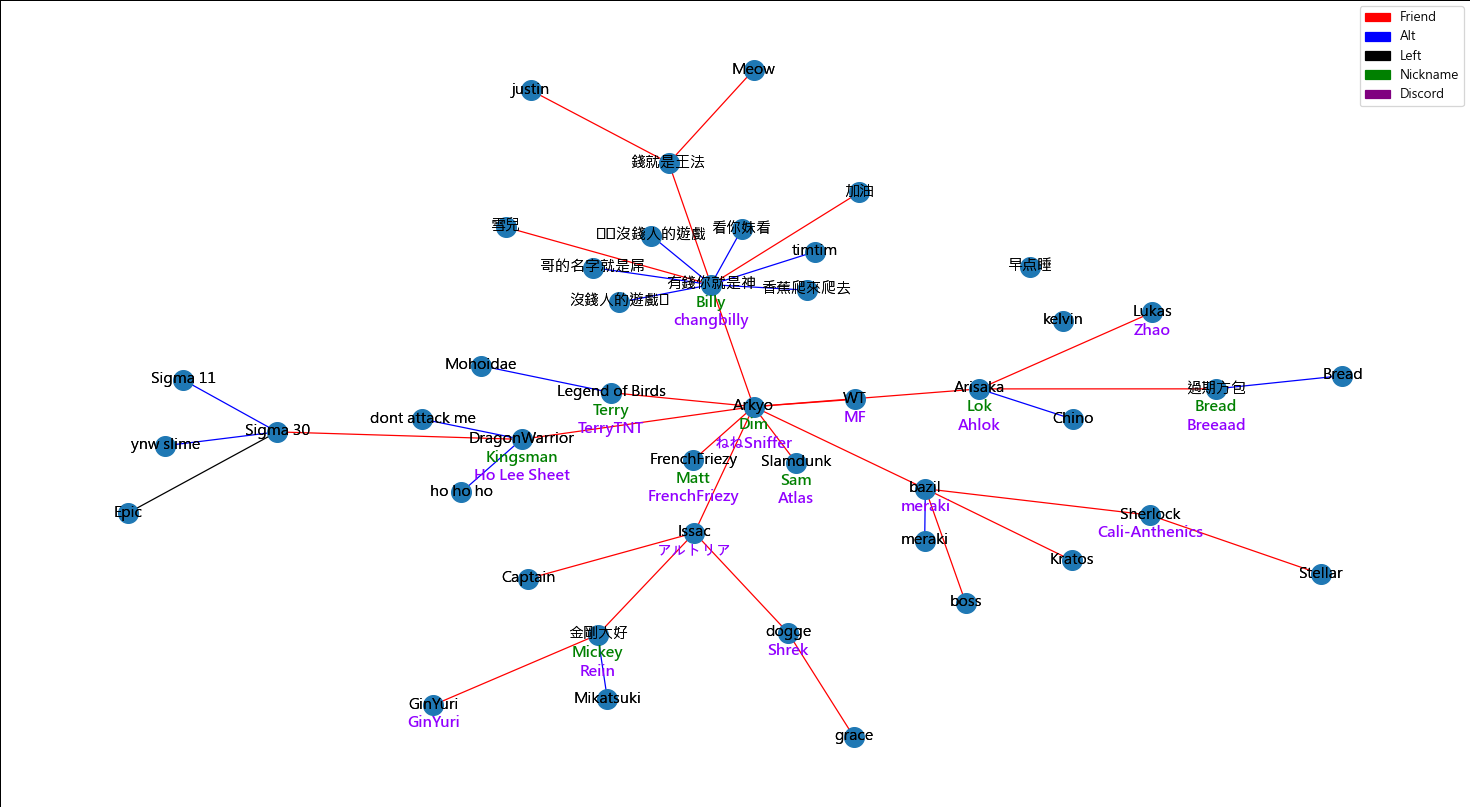
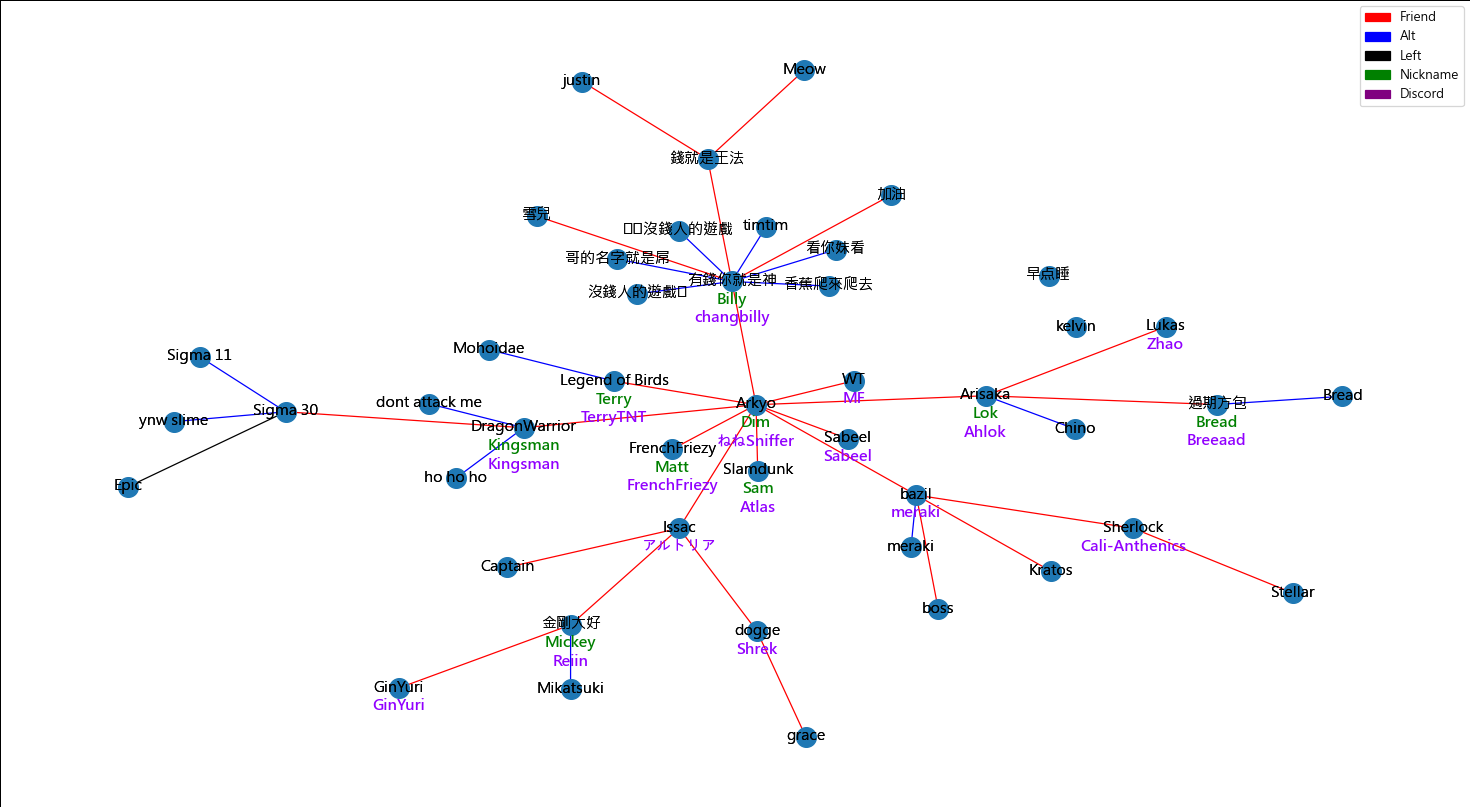
Update relation

diff --git a/relation/relation.py b/relation/relation.py
@@ -67,7 +67,7 @@ add_fd('有錢你就是神', '雪兒')
 add_alt('有錢你就是神', '沒錢人的遊戲🌚')
 add_alt('有錢你就是神', 'timtim')
 add_fd('錢就是王法', 'justin')
-add_fd('Arkyo', 'DragonWarrior', aka='Kingsman', discord='Ho Lee Sheet')
+add_fd('Arkyo', 'DragonWarrior', aka='Kingsman', discord='Kingsman')
 add_fd('DragonWarrior', 'Sigma 30')
 add_fd('Arkyo', 'Arisaka', aka='Lok', discord='Ahlok')
 add_fd('Arisaka', '過期方包', aka='Bread', discord='Breeaad')
@@ -90,6 +90,7 @@ add_fd('dogge', 'grace')
 add_alt('Arisaka', 'Chino')
 add_alt('過期方包', 'Bread')
 add_left('Sigma 30', 'Epic')
+add_fd('Arkyo', 'Sabeel', discord='Sabeel')
 add_fd('有錢你就是神', '加油')
 add_fd('Sherlock', 'Stellar')
 add_fd('Arisaka', 'Lukas', discord='Zhao')

diff --git a/README.md b/README.md
@@ -3,4 +3,4 @@
 ## Clan War Standard 部落战标准规定
 [English](docs/cw_std_EN.md)    [中文](docs/cw_std_CN.md)
 
-## [Clan member relations graph 战队成员关系图](relation/Figure_1.png)
+## [Clan member relations graph 部落成员关系图](https://raw.githubusercontent.com/Pythonic-Rainbow/coc-clan/main/relation/Figure_1.png)
